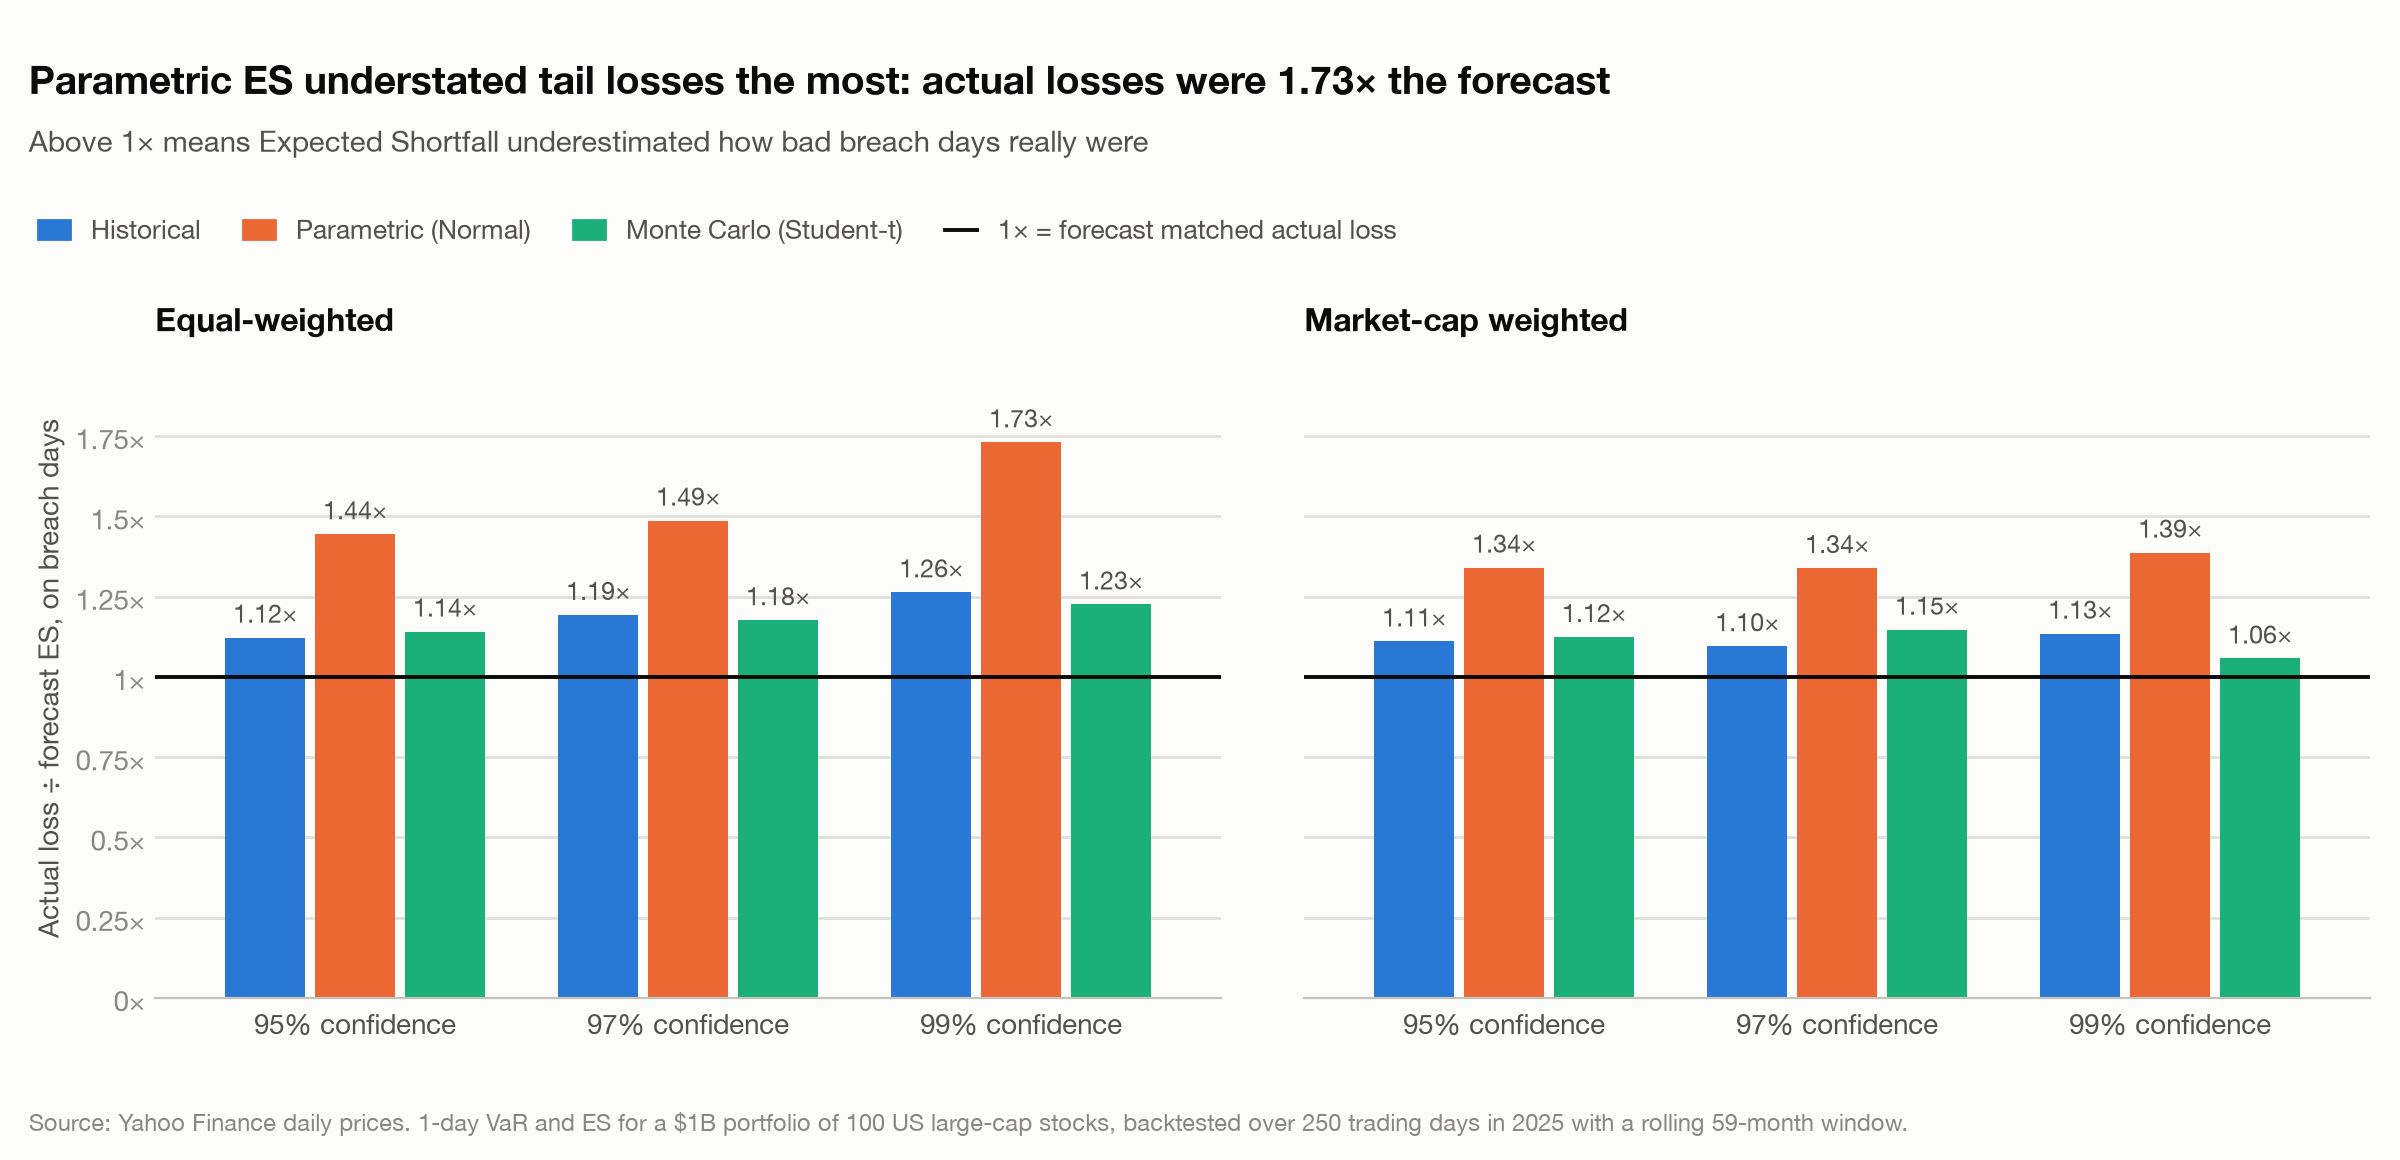
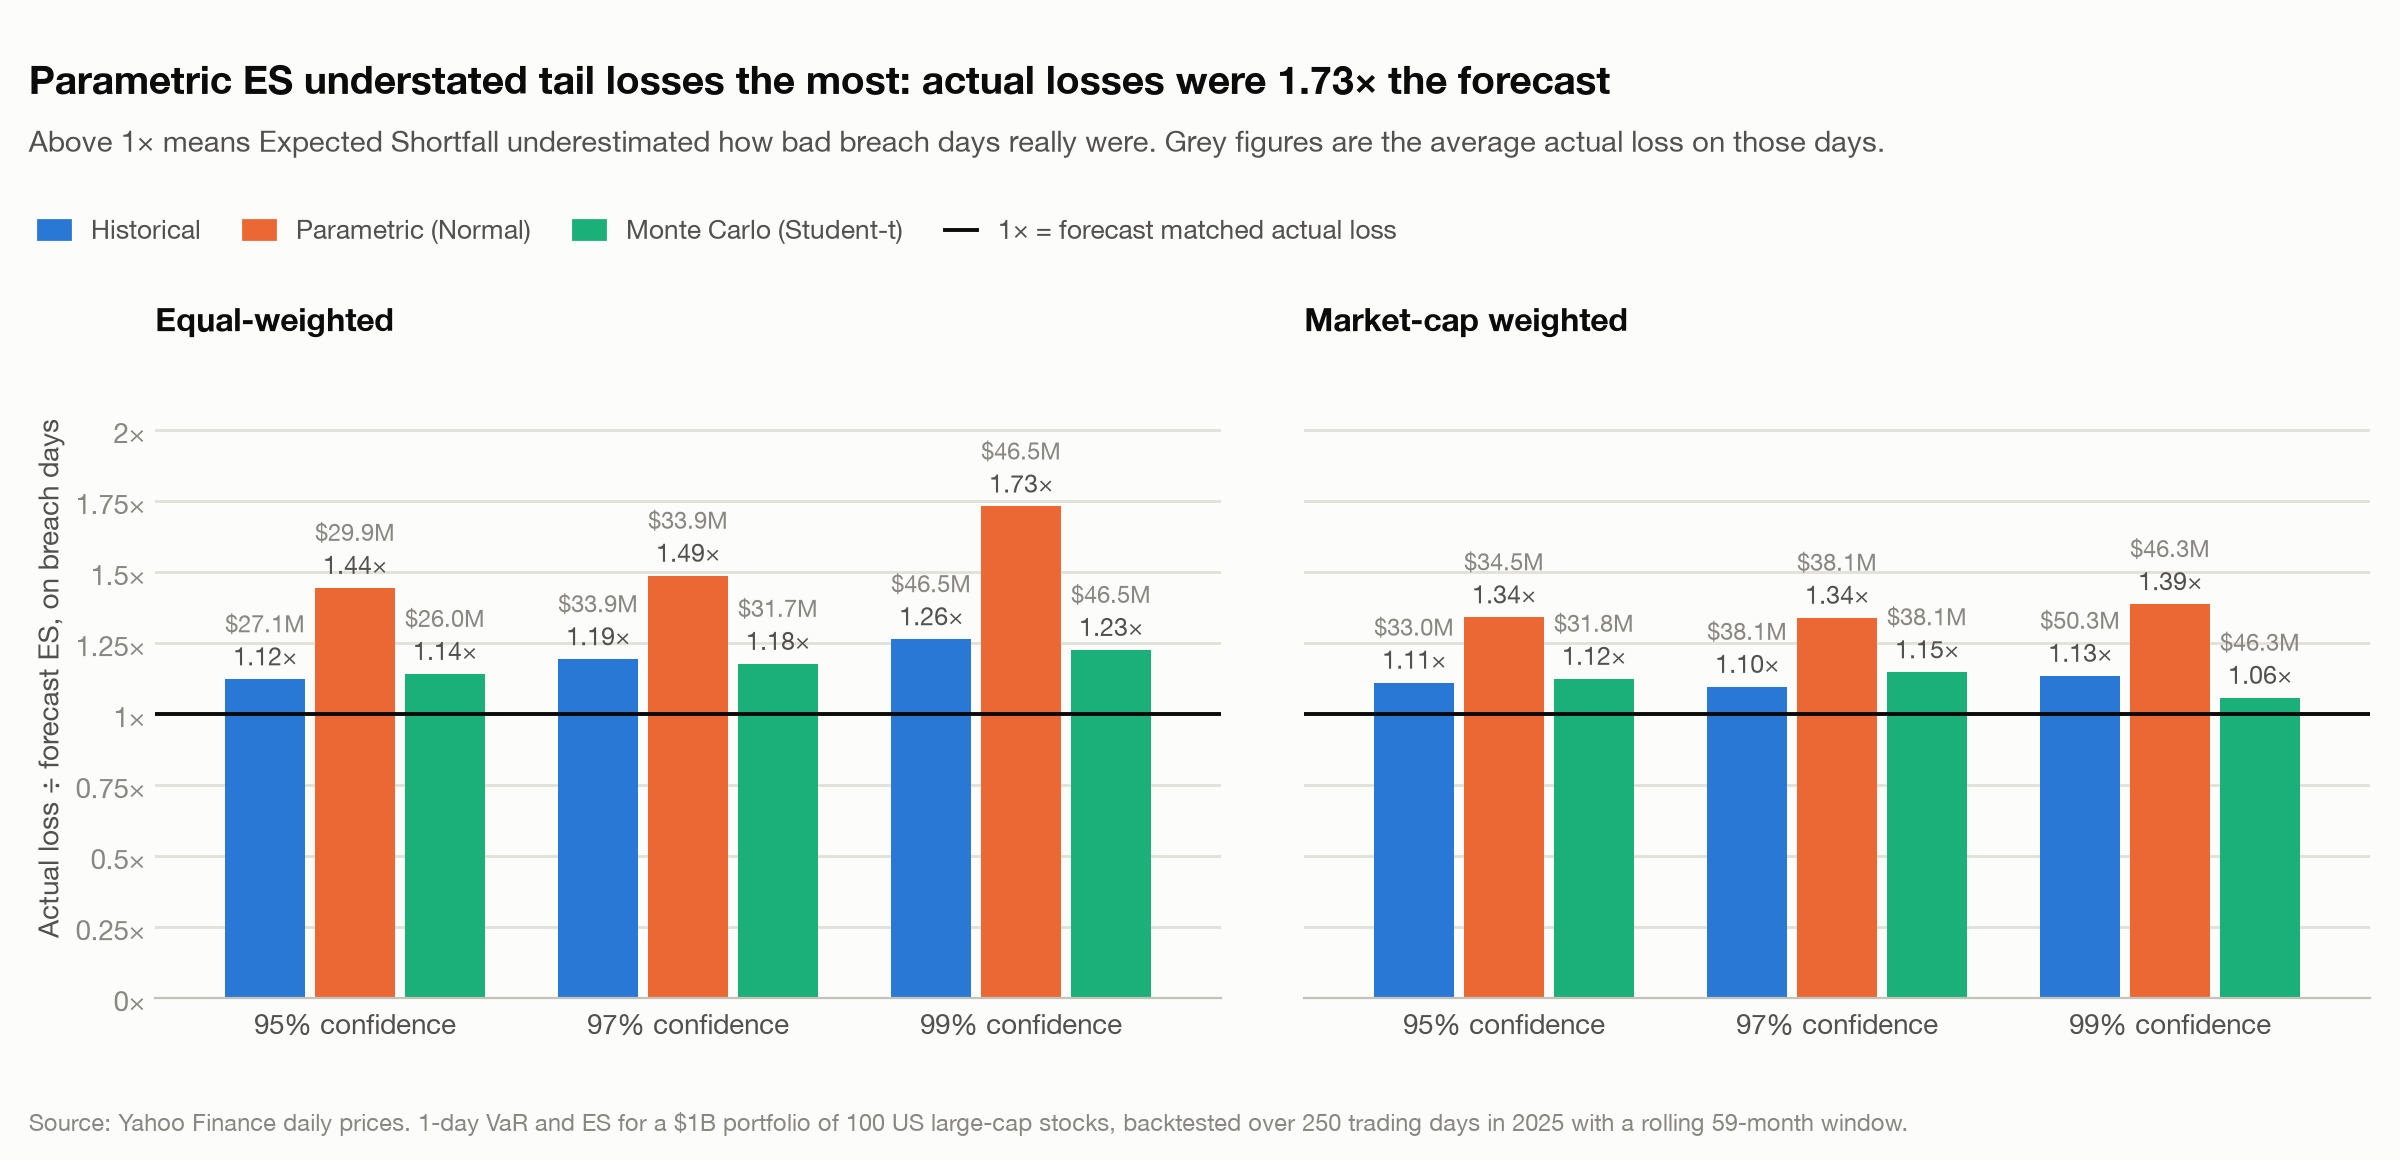
Show actual breach-day loss on the ES accuracy chart
Each bar now carries the average actual loss on its breach days above the
actual-loss-to-ES ratio, so the chart reports the dollar amount alongside
the ratio rather than the ratio alone.

diff --git a/src/var_backtest/compare.py b/src/var_backtest/compare.py
@@ -81,8 +81,13 @@ def _save(fig, path: Path) -> Path:
     return path
 
 
-def _grouped_bars(ax, run: RunResults, column: str, fmt, label_pad: float, avoid: list[float] | None = None) -> None:
-    """Grouped bars per confidence level. Value labels jump above any `avoid` line (one per group) they would hit."""
+def _grouped_bars(ax, run: RunResults, column: str, fmt, label_pad: float, avoid: list[float] | None = None,
+                  sub_column: str | None = None, sub_fmt=None) -> None:
+    """Grouped bars per confidence level.
+
+    Value labels jump above any `avoid` line (one per group) they would hit. `sub_column` adds a
+    second, muted label above the value label.
+    """
     levels = _levels(run)
     x = np.arange(len(levels))
     width = 0.24
@@ -96,6 +101,10 @@ def _grouped_bars(ax, run: RunResults, column: str, fmt, label_pad: float, avoid
                 if avoid is not None and -label_pad * 4 < avoid[i] - y < label_pad * 3:
                     y = max(y, avoid[i] + label_pad)
                 ax.text(p, y, fmt(v), ha="center", va="bottom", color=INK_SECONDARY, fontsize=9)
+                if sub_column:
+                    sub = run.row(method, levels[i])[sub_column]
+                    ax.annotate("n/a" if pd.isna(sub) else sub_fmt(sub), xy=(p, y), xytext=(0, 12),
+                                textcoords="offset points", ha="center", va="bottom", color=INK_MUTED, fontsize=8.5)
     ax.set_xticks(x)
     ax.set_xlim(-0.6, len(levels) - 0.4)
     clean_axes(ax)
@@ -181,10 +190,11 @@ def chart_es_accuracy(runs: list[RunResults], path: Path, source: str) -> Path:
     top = max(r.summary[col].max() for r in runs)
 
     for ax, run in zip(axes, runs):
-        _grouped_bars(ax, run, col, lambda v: f"{v:.2f}×", label_pad=0.03)
+        _grouped_bars(ax, run, col, lambda v: f"{v:.2f}×", label_pad=0.03,
+                      sub_column="Avg loss on breach days ($)", sub_fmt=lambda v: f"${v / 1e6:.1f}M")
         ax.axhline(1, color=INK, linewidth=1.4, zorder=3)
         ax.set_xticklabels([f"{lvl} confidence" for lvl in _levels(run)], color=INK_SECONDARY)
-        ax.set_ylim(0, top * 1.15)
+        ax.set_ylim(0, top * 1.3)
         ax.yaxis.set_major_formatter(FuncFormatter(lambda v, _: f"{v:g}×"))
     axes[0].set_ylabel("Actual loss ÷ forecast ES, on breach days")
 
@@ -192,7 +202,8 @@ def chart_es_accuracy(runs: list[RunResults], path: Path, source: str) -> Path:
     worst = all_rows.loc[all_rows[col].idxmax()]
     headline(fig, f"{SHORT[worst['Method']]} ES understated tail losses the most: "
                   f"actual losses were {worst[col]:.2f}× the forecast",
-             "Above 1× means Expected Shortfall underestimated how bad breach days really were", source)
+             "Above 1× means Expected Shortfall underestimated how bad breach days really were. "
+             "Grey figures are the average actual loss on those days.", source)
     _method_legend(fig, 0.95, [Line2D([], [], color=INK, linewidth=1.4, label="1× = forecast matched actual loss")])
     bottom, top_frac = reserve(fig, 1.35, 0.45)
     fig.tight_layout(rect=(0, bottom, 1, top_frac), w_pad=3)
@@ -448,7 +459,7 @@ GALLERY = [
     ("03_monthly_breach_heatmap.png", "When breaches happened", "Breaches by month show how tightly they bunch around the tariff shock."),
     ("04_tariff_shock_zoom.png", "The tariff shock, up close", "VaR drifted down as March 2020 left the window, just before the April losses."),
     ("05_var_vs_es.png", "VaR vs Expected Shortfall", "How much further the average tail loss sits beyond VaR, per model."),
-    ("06_es_accuracy.png", "Was ES big enough?", "Actual breach-day losses compared with the ES forecast."),
+    ("06_es_accuracy.png", "Was ES big enough?", "Average actual loss on breach days, and how it compares with the ES forecast."),
     ("07_concentration_effect.png", "Equal vs market-cap weights", "Concentration in mega-caps and its effect on VaR."),
     ("08_runtime.png", "Speed", "Compute cost of each method."),
 ]

diff --git a/outputs/comparison/README.md b/outputs/comparison/README.md
@@ -34,7 +34,7 @@ How much further the average tail loss sits beyond VaR, per model.
 
 ## Was ES big enough?
 
-Actual breach-day losses compared with the ES forecast.
+Average actual loss on breach days, and how it compares with the ES forecast.
 
 ![Was ES big enough?](06_es_accuracy.png)
 
